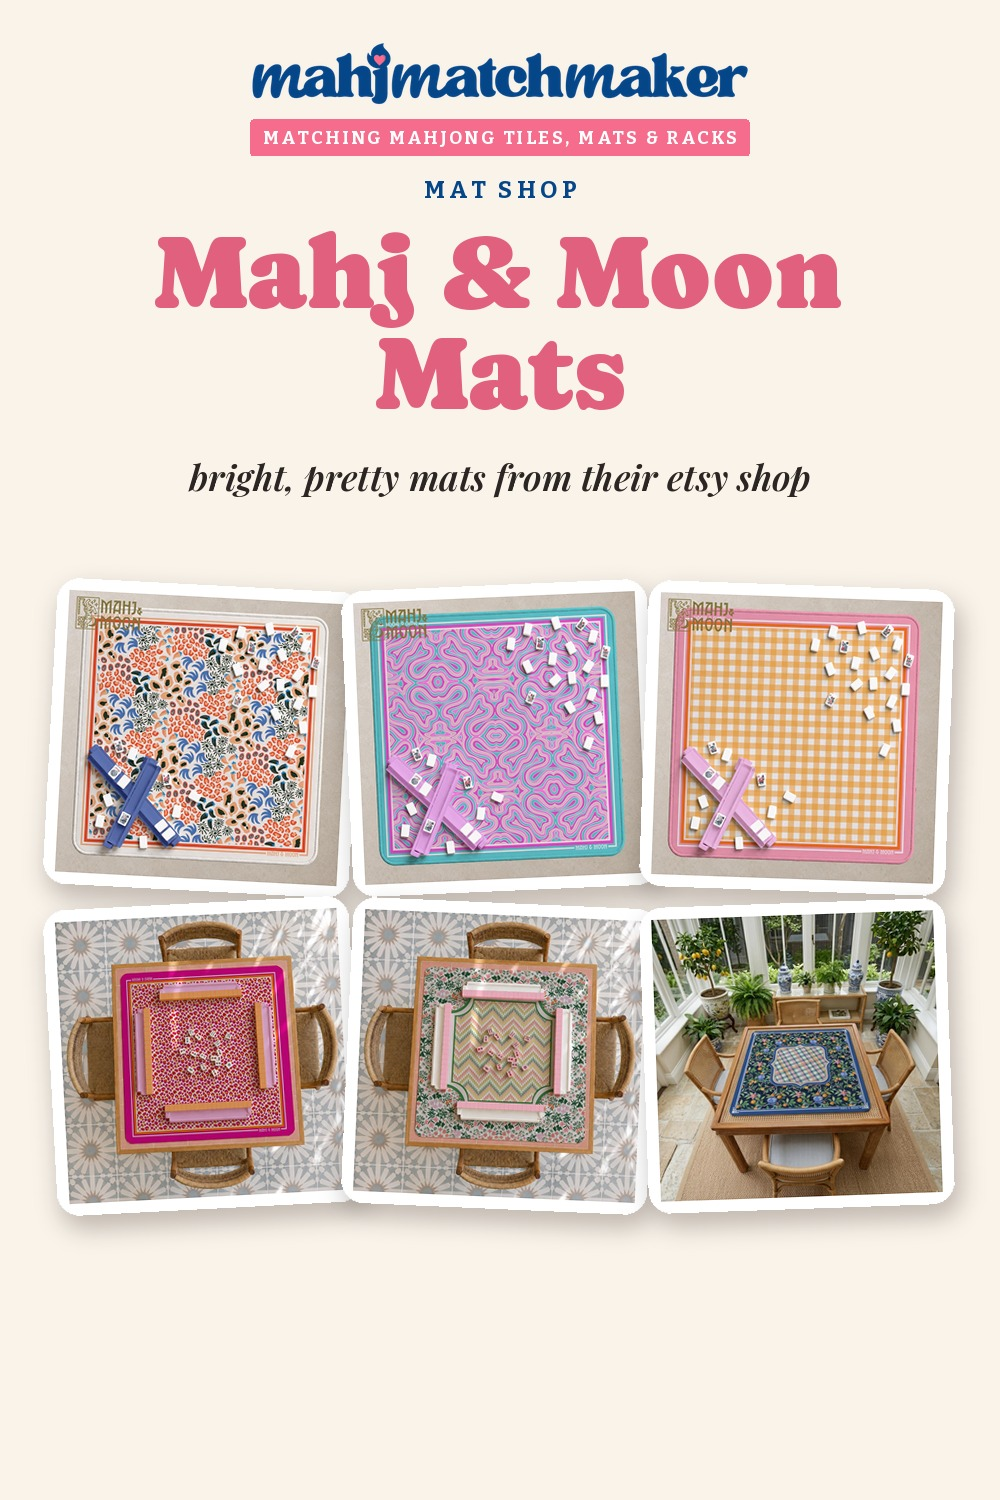
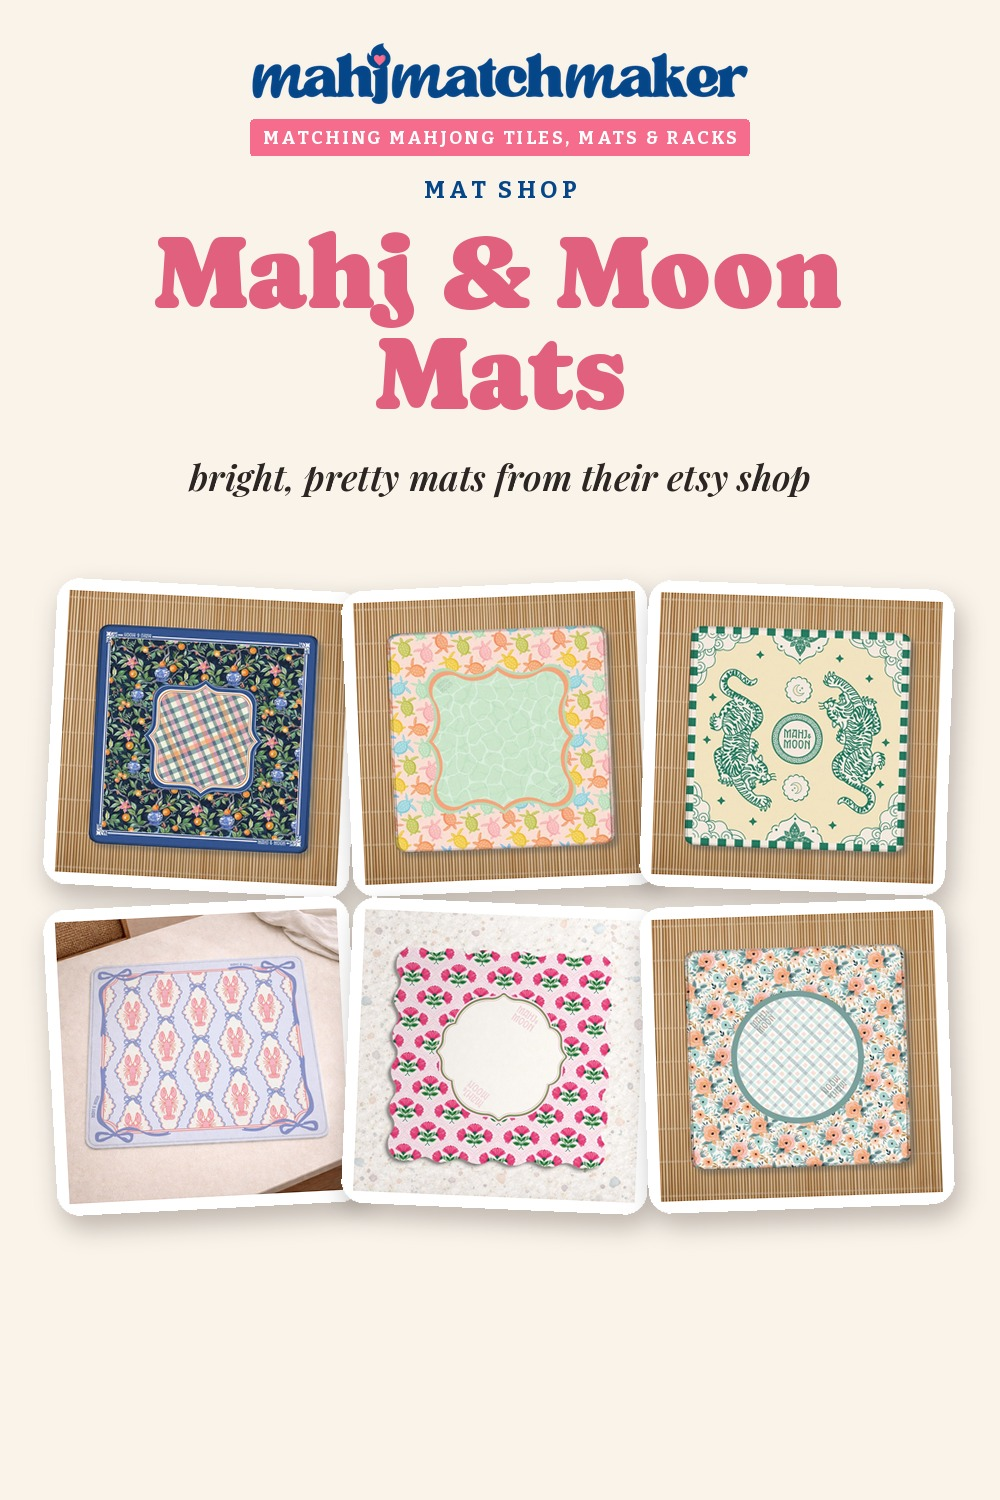
Mahj & Moon ShopMy: aerial photos only, 13 mats, new cover, link list updated
Claude-Session: https://claude.ai/code/session_01PiwamzEftkvrKP5d7A1QEB

diff --git a/docs/SHOPMY-MAHJ-MOON-oct27.md b/docs/SHOPMY-MAHJ-MOON-oct27.md
@@ -1,22 +1,22 @@
-# Mahj & Moon ShopMy collection - link list (Oct 27)
+# Mahj & Moon ShopMy collection - link list (Oct 27, updated 1am: aerial photos only)
 
-Collection: https://shopmy.us/collections/8525607 (14 mats, cover, description, placed after Etsy Mahjong Mats in the shelves). Etsy payout 6%.
+Collection: https://shopmy.us/collections/8525607 (13 mats, aerial flat photos only, new cover). Etsy payout 6%.
+Removed (tabletop-only photos): Leopard American, Floral Chevron, Pink Leopard, Chinoiserie Monkey, Retro Mid-Century, Orange Gingham.
 
 | # | Mat | Etsy listing |
 |---|---|---|
-| 1 | Leopard American Mahjong Mat | https://www.etsy.com/listing/4531965642 |
-| 2 | Floral Chevron Mahjong Mat | https://www.etsy.com/listing/4527812549 |
-| 3 | Sun Tarot Mahjong Mat | https://www.etsy.com/listing/4527820445 |
-| 4 | Pink Leopard Mahjong Mat | https://www.etsy.com/listing/4541950825 |
-| 5 | Blue Chinoiserie Mahjong Mat | https://www.etsy.com/listing/4527259653 |
-| 6 | Chinoiserie Monkey Mahjong Mat | https://www.etsy.com/listing/4527262793 |
-| 7 | Pink & Blue Grandmillennial Mahjong Mat | https://www.etsy.com/listing/4527255793 |
-| 8 | Retro Mid-Century Mahjong Mat | https://www.etsy.com/listing/4538818979 |
-| 9 | Sea Turtle Beach Mahjong Mat | https://www.etsy.com/listing/4458515584 |
-| 10 | Pink Butterfly Mahjong Mat | https://www.etsy.com/listing/4526746785 |
-| 11 | Vintage Floral Garden Mahjong Mat | https://www.etsy.com/listing/4371281339 |
-| 12 | Palm Beach Preppy Mahjong Mat | https://www.etsy.com/listing/4350720810 |
-| 13 | Orange Gingham Picnic Mahjong Mat | https://www.etsy.com/listing/4542635324 |
-| 14 | Tropical Toucan Pink Palm Mahjong Mat | https://www.etsy.com/listing/4524615723 |
+| 1 | Sun Tarot Mahjong Mat | https://www.etsy.com/listing/4527820445 |
+| 2 | Blue Chinoiserie Mahjong Mat | https://www.etsy.com/listing/4527259653 |
+| 3 | Pink & Blue Grandmillennial Mahjong Mat | https://www.etsy.com/listing/4527255793 |
+| 4 | Sea Turtle Beach Mahjong Mat | https://www.etsy.com/listing/4458515584 |
+| 5 | Pink Butterfly Mahjong Mat | https://www.etsy.com/listing/4526746785 |
+| 6 | Vintage Floral Garden Mahjong Mat | https://www.etsy.com/listing/4371281339 |
+| 7 | Palm Beach Preppy Mahjong Mat | https://www.etsy.com/listing/4350720810 |
+| 8 | Tropical Toucan Pink Palm Mahjong Mat | https://www.etsy.com/listing/4524615723 |
+| 9 | Palm Tree Retro Tropical Mahjong Mat | https://www.etsy.com/listing/4577957885 |
+| 10 | Vintage Floral Pink Mahjong Mat | https://www.etsy.com/listing/4575845329 |
+| 11 | Preppy Chinoiserie Tiger Mahjong Mat | https://www.etsy.com/listing/4458503594 |
+| 12 | Lobster Coastal Mahjong Mat | https://www.etsy.com/listing/4566953251 |
+| 13 | Scalloped Pink Floral Mahjong Mat | https://www.etsy.com/listing/4600985202 |
 
-Handoff to Matches & Catalog: machine-readable copy in config/mahj-moon-shopmy-links.json (`_pinned_etsy_listings`). Match to FYM Mahj & Moon mats by design name and use the Etsy listing or the collection URL for the Shop link. Per-item ShopMy go-links are not exposed.
+Matches & Catalog: machine copy in config/mahj-moon-shopmy-links.json (`_pinned_etsy_listings`). Match to FYM Mahj & Moon mats by design name; use the Etsy listing or collection URL.

diff --git a/docs/DESK.md b/docs/DESK.md
@@ -152,6 +152,6 @@ Virora has no email (contact form only), so they're NOT on the 10:30am partner e
 ## SOCIAL: search-optimize captions with MAHJMATCH (from Tiffany, Oct 26 11:56pm, STANDING)
 Tiffany wants social picked up by search (Instagram search + Google/AI), not just followers. Every caption that features a partner brand should type out the code **MAHJMATCH** in plain text with the brand name and "discount code" wording (e.g. "[Brand] discount code MAHJMATCH"), not only in an image or link. Add to caption rules; apply to the Oct 22 to Dec 31 plan. Notes in her words: she doesn't think social's notes say how important this is. Reply on this desk when added to doc 95 caption voice rules.
 
-- OPS (Tiffany 11:58pm Oct 26, DO BEFORE LAUNCH Oct 27): complete ShopMy "Mahj & Moon" mat collection: 4 FYM Mahj & Moon mats + ~10 more with links, cover card (my call), place near Mahj & Vine in shelf order. Status: DONE Oct 27 ~1am. 14 mats pinned, cover + description set, placed after Etsy Mahjong Mats.
+- OPS (Tiffany 11:58pm Oct 26, DO BEFORE LAUNCH Oct 27): complete ShopMy "Mahj & Moon" mat collection: 4 FYM Mahj & Moon mats + ~10 more with links, cover card (my call), place near Mahj & Vine in shelf order. Status: DONE Oct 27 ~1am. 13 mats pinned (aerial photos only, Tiffany Oct 27 12:43am), cover + description set, placed after Etsy Mahjong Mats.
 
-- MATCHES & CATALOG (from Tiffany 12:03am Oct 27): when OPS finishes the ShopMy "Mahj & Moon" mat collection, pull those ShopMy links into the Find Your Mat-ch app for the Mahj & Moon mats (the 4 already in FYM plus the ~10 new). READY: link list is docs/SHOPMY-MAHJ-MOON-oct27.md and config/mahj-moon-shopmy-links.json (collection https://shopmy.us/collections/8525607, 14 Etsy listings; per-item go-links are not exposed).
+- MATCHES & CATALOG (from Tiffany 12:03am Oct 27): when OPS finishes the ShopMy "Mahj & Moon" mat collection, pull those ShopMy links into the Find Your Mat-ch app for the Mahj & Moon mats (the 4 already in FYM plus the ~10 new). READY: link list is docs/SHOPMY-MAHJ-MOON-oct27.md and config/mahj-moon-shopmy-links.json (collection https://shopmy.us/collections/8525607, 13 Etsy listings; per-item go-links are not exposed).

diff --git a/docs/ANSWERS.md b/docs/ANSWERS.md
@@ -489,3 +489,7 @@ Format: `- YYYY-MM-DD HH:MM · chat · topic · her answer in her words (short) 
 - Oct 27 12:50am (Main): Tiffany '1 yes, 2 yes' → Tigre de Tartán (House Hearts Warm White × Domino Faded Carolina + TdT tortoise) and Yellow Mountain Imports (Huntington × Stella + YMI Chestnut + Clear) APPROVED. 30 of 31 partner graphics done; Peace Love Mahjong left.
 - Oct 27 12:50am (Main): Tiffany: NO white outline/offset on ANY card title (Huntington's dark green still had the faint white copy). Partner graphics: removed everywhere, re-rendering; app: MATCH-INBOX priority updated.
 - Oct 27 12:37-12:47am · Tiffany: hates the v98b card titles (navy outline, OG Desert Dreams); "I didn't tell anybody to do anything to the text"; Solara must be PEACH like her approved album; Papaya Spritz must not be green; stop darkening colours ("chill on things not being able to be read"); show FULL cards with tiles, not title strips. → nothing published; v100b = album colours exactly (config/fym-title-colours-oct27.json), no outline/darkening; pale-set fallback (option 1 deeper own shade vs option 2 navy) waiting on her. Rule: any title-style change needs her yes first (gate [98]).
+
+
+## Oct 27 12:43am - ShopMy product images: aerial flat mat photos only (STANDING for ShopMy mat boards)
+Tiffany: tabletop room images look AI, don't want them. Use the clean flat/aerial photo from the listing gallery (copy its photo URL into the product's Image URL field). Mahj & Moon redone: 6 tabletop-only mats removed, 5 new mats added, 8 re-imaged, cover rebuilt. 13 mats now.
